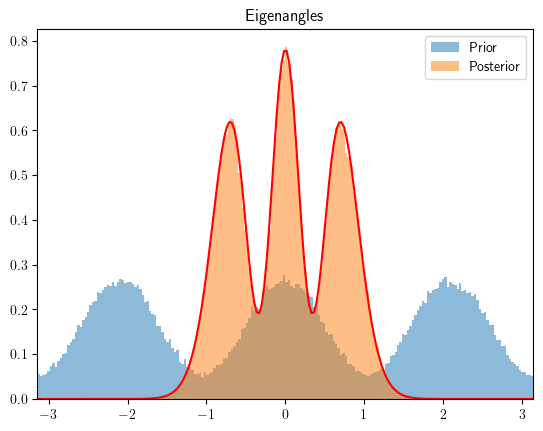
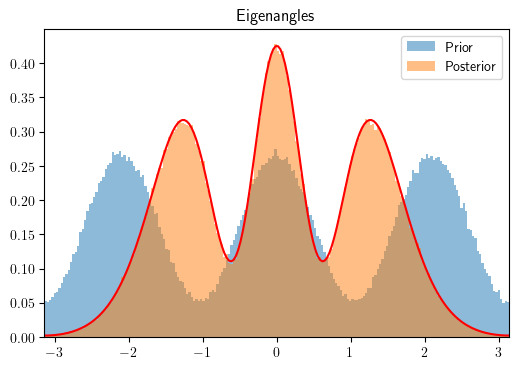
point README's SU(N) matrix example at the notebook and refresh its eigenangle figure

diff --git a/README.md b/README.md
@@ -146,10 +146,11 @@ coupling layers.
 
 For SU(N) matrices, two further examples are provided:
 
-- [examples/matrix_model.py](examples/matrix_model.py): a minimal normalizing flow over a single
+- [examples/matrix_models/SUN_matrix_model.ipynb](examples/matrix_models/SUN_matrix_model.ipynb):
+  a minimal normalizing flow over a single
   SU(N) matrix (SU(2) or SU(3)) -- not a lattice gauge theory, just a
   simple SU(N) matrix -- useful as a quick illustration of the matrix machinery
-  (`MatrixModule_` with a `Pade22_`- or `RQSplineNet_`-based parametrization).
+  (`MatrixModule_` with an `RQSplineNet_`-based parametrization).
   The figure below shows the eigenangle distribution of SU(3) matrices before
   (prior) and after (posterior) training, against the analytic target (red):
 
